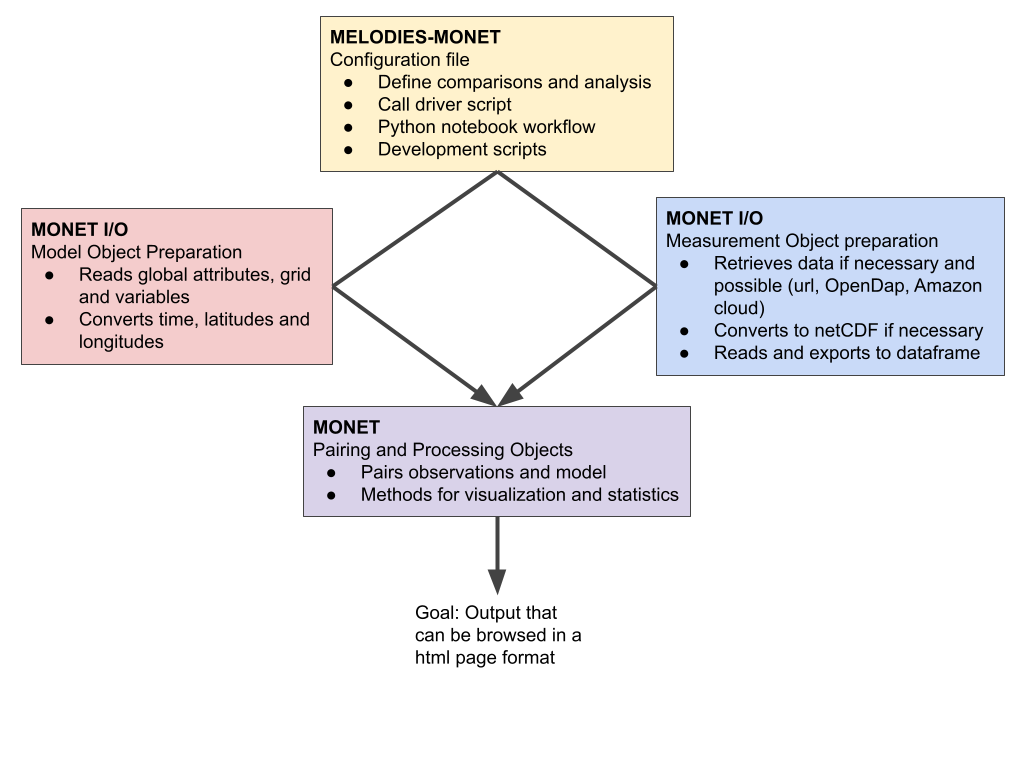
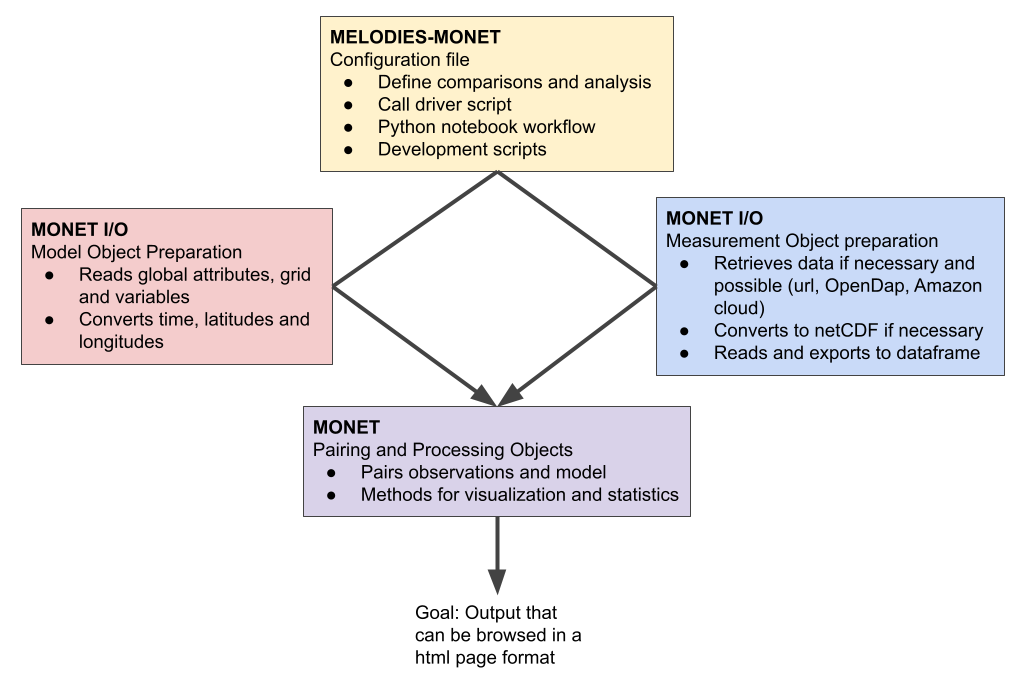
Adding in more information from the google doc.

Changed region(s): [[0.0, 0.0, 1.0, 0.981]]

diff --git a/docs/tutorial/machine-specific-install.rst b/docs/tutorial/machine-specific-install.rst
@@ -1,0 +1,102 @@
+Machine-specific Install
+=========================
+
+NCAR HPC cheyenne
+--------------------
+
+Below is a specific recipe for how to set up all the necessary Python dependencies on the NCAR HPC, cheyenne/casper. Note: these are developer-specific instructions. There are three steps to complete before you can use and develop MELODIES-MONET on cheyenne/casper: **Step 1.** Installing the conda package manager Miniconda, **Step 2.** Creating a conda environment with all required dependencies, and **Step 3.** Cloning MELODIES-MONET code.
+
+We will use the conda package manager system to create a contained Python environment for running and developing MELODIES-MONET. This creates a “stand-alone” instance of interdependent packages that will not interfere with your access to the main installation of Python on the system. These instructions should work for a bash or tcsh shell.
+
+**Step 0:** Log into the NCAR HPC
+
+**Step 1 Miniconda:** The conda package manager is not installed on the Cheyenne or Casper clusters, but you can install Miniconda in your own user space (`CISL instructions <https://www2.cisl.ucar.edu/resources/conda-environments>`_):
+
+(a) Download latest version::
+
+    $ curl -o install_miniconda.sh https://repo.anaconda.com/miniconda/Miniconda3-latest-Linux-x86_64.sh
+
+(b) Verify download::
+
+    $ sha256sum install_miniconda.sh
+
+    Output (June 2021)::
+
+    $ 1314b90489f154602fd794accfc90446111514a5a72fe1f71ab83e07de9504a7
+
+(c) Install Miniconda::
+
+    $ bash install_miniconda.sh
+
+    If you already have miniconda and want to try and update::
+
+    $ bash install_miniconda.sh -u
+
+Accept the license and default install paths. Say yes to running conda init. Log out of cheyenne/casper and log back in. You may see '(base)' as the start of your terminal prompt. If you have any issues with package conflicts you may need to uninstall miniconda and reinstall.
+
+**Step 2 Dependent Python Packages:** Set up a conda environment with required dependencies.
+
+(a) Set up and activate CONDA environment specific to MELODIES-MONET. You can call this environment whatever you like, we suggest ‘monet_py36’::
+
+    $ conda create --name monet_py36 python=3.6
+    $ conda activate monet_py36
+
+    You should see ‘(monet_py36)’ at the start of your terminal prompt.
+
+(b) Download the following packages step-by-step. Note they have sub-packages that will be downloaded. The ‘-y’ means you will not have to interactively choose ‘y’ to proceed with downloading packages::
+
+    $ conda install netcdf4
+    $ conda install -y -c conda-forge monet
+    $ conda install -y -c conda-forge monetio
+    $ conda install -y -c conda-forge wrf-python
+    $ conda install -y -c conda-forge jupyter
+
+    Some main packages that are downloaded with the monet install: *cartopy, cython, dask, markupsafe, matplotlib-base, pandas, pydecorate, pyresample, python-stratify, seaborn, xarray, xesmf*. Some main packages that are downloaded with the jupyter install: *icu, ipykernel, ipython*. If other systems have timeout errors, downloading these separately may improve the setup performance.
+
+(c) Once you set up the correct packages through conda, and while your conda environment is still activated, get the most recent branches of MONET and MONETIO using github, and link them with conda. This is done because MONET and MONETIO are still in active development. Create a ‘monet-base’ folder (e.g. in your work location on cheyenne).
+
+    Set up and link MONET within monet-base::
+
+    $ git clone https://github.com/noaa-oar-arl/monet.git
+    $ cd monet
+    $ git checkout develop
+    $ pip install -e .
+
+    Set up and link MONET IO within monet-base::
+
+    $ git clone https://github.com/noaa-oar-arl/monetio.git
+    $ cd monetio
+    $ git checkout development
+    $ pip install -e .
+
+**Step 3: Clone the MELODIES-MONET Github branch**
+
+(a) Fork the Github repository to your own Github account:
+
+    https://github.com/NOAA-CSL/MELODIES-MONET
+
+    Note: you can pull updates from the main NOAA repository by using the “Fetch upstream” button on your fork. Alternatively::
+
+    $ git pull upstream master
+    $ git push origin master
+
+(b) Navigate on cheyenne/casper to where you would like to keep the MELODIES-MONET code (e.g. in your work location) and clone your fork to cheyenne::
+
+    $ git clone https://github.com/$GithubUsername/$ForkName.git
+
+(c) Checkout the develop_plots branch - you need to do this with the remote branch as well as create a local tracking branch::
+
+    $ git checkout origin/develop_plots
+    $ git checkout develop_plots
+
+    Then all development work will be in the monet_analysis folder::
+
+    $ cd monet_analysis
+
+    End step. At the end of working with MELODIES-MONET, deactivate the conda environment::
+
+    $ conda deactivate
+
+
+**You are ready to start developing MELODIES-MONET!**
+

diff --git a/docs/background/installation.rst b/docs/background/installation.rst
@@ -17,43 +17,36 @@ For parallel computing
 
 - `dask.array <http://dask.pydata.org>`__ (0.9.0 or later): required for
 
-Instructions
-------------
+Conda YAML files
+~~~~~~~~~~~~~~~~
+Examples of conda configuration yaml files that include a record of all the dependencies are available via the GitHub:
 
-monetio itself is a pure Python package, but some of it's dependencies may not be.
-The simplest way to install MONET is to install it from the channel bbakernoaa::
+- `MELODIES-MONET conda yml <https://github.com/NOAA-CSL/MELODIES-MONET/tree/develop_plots/monet_analysis/data/python_env_ymls>`__
 
-    $ conda install -c bbakernoaa monetio
+General Instructions
+--------------------
 
-This will install all of the dependencies needed by monetio along with monetio itself.
+MELODIES-MONET itself is a pure Python package, but some of it's dependencies may not be.
+First, set up a conda environment with all the dependencies, including MONET and MONETIO::
 
-If you choose to install it manually you can install the dependencies we recommend using the the following command::
+    $ conda create --name monet_py36 python=3.6
+    $ conda activate monet_py36
+    $ conda install netcdf4
+    $ conda install -y -c conda-forge wrf-python
+    $ conda install -y -c conda-forge jupyter
+    $ conda install -y -c conda-forge monet
+    $ conda install -y -c conda-forge monetio
 
-    $ conda config --add channels conda-forge
-    $ conda install xarray dask netCDF4 numpy pandas s3fs
+Then, fork the MELODIES-MONET package to your own GitHub and clone the repository to the location you will be using the plotting package.
 
-We recommend using the community maintained `conda-forge <https://conda-forge.github.io/>`_ channel
-if you need difficult\-to\-build dependencies such as cartopy, pynio or PseudoNetCDF::
 
-    $ conda install -c conda-forge xarray pandas matplotlib seaborn cartopy pseudonetcdf
+.. [1] For instructions for specific machine environments see Appendix:
 
-To install MONET currently you must install with pip.  This can be done directly
-from the github page::
+      - `NCAR cheyenne <../tutorial/machine-specific-install.html#NCAR-HPC-cheyenne>`__
 
-    $ pip install git+https://github.com/noaa-oar-arl/monetio.git
-
-or you can manually download it from GitHub and install it using the setup.py::
-
-    $ git clone https://github.com/noaa-oar-arl/MONET.git
-    $ cd MONET
-    $ pip install setup.py
-
-.. [1] MONET plans to drop support for python 2.7 sometime in 2019. This
-   means that new releases of xarray published after this date will only be
-   installable on python 3+ environments, but older versions of xarray will
-   always be available to python 2.7 users. For more information see the
-   following references:
+.. [2] For more information see the following references:
 
       - `Python 3 Statement <http://www.python3statement.org/>`__
       - `Tips on porting to Python 3 <https://docs.python.org/3/howto/pyporting.html>`__
+
 

diff --git a/docs/background/getting-started.rst b/docs/background/getting-started.rst
@@ -1,2 +1,28 @@
 Getting Started
 ===============
+
+The user interface
+------------------
+YAML (YAML Ain't Markup Language) is the format of the MELODIES configuration file. The yaml configuration file is how the general user interacts with MELODIES-MONET. A user edits the yaml file and then uses the driver python script to run the yaml script. In the configuration file, the user specifies which evaluations will be performed, i.e. which measurements to use and which comparisons to make.
+
+Links to example yaml files can be found here:
+
+- Example 1
+
+
+How MELODIES-MONET works
+------------------------
+
+A single driver file reads the yaml configuration file and handles sending all the appropriate calls to the processing code. The driver functions are initiated from a python notebook. The analysis system:
+
+ - transforms model and observations into standard formats
+ - includes a standard set of observational data
+ - automatically generates diagnostics and plots
+ - is easily altered to produce publication-quality plots
+
+Processing requires input to be in netCDF format. MONETIO can be used to convert input files into netCDF prior to using MELODIES-MONET. Data needs to have latitude, longitude, and a datetime object defined.
+
+.. figure:: /_static/MM_classes_connections.png
+  :alt: diagram showing the Python classes defined and used in MELODIES-MONET.
+  
+  Schematic of the classes defined in the Python code and used by MELODIES-MONET.

diff --git a/docs/background/contributing.rst b/docs/background/contributing.rst
@@ -1,4 +1,14 @@
 How to Contribute?
 ==================
 
+MELODIES-MONET is a community driven project. It would not be possible without the contributions and support from you. Below is a list of people who have specifically contributed to MELODIES-MONET. If your name is missing and you have contributed - please contact us and let us know!
 
+
+Get involved
+-------------
+Workshops, development team, GitHub issues.
+
+
+Results from 2020 user survey
+-----------------------------
+A survey of the atmospheric chemistry community was conducted in Nov-Dec 2020 to identify existing model evaluation tools and to catalog desired features of model-observation comparison software.  30 responses were received, with 80% being researchers who run models and 20% who primarily analyze observations.  There was equal interest in using satellite retrievals, field campaign in situ data, and surface or ground-based networks.  The respondents included users of 17 unique models and covered a wide range of areas of research, including air quality, gas-phase and aerosol chemistry, cloud interactions, marine chemistry, emissions inventories, data assimilation and public health. This survey informaed development priorities.

diff --git a/docs/index.rst b/docs/index.rst
@@ -35,7 +35,7 @@ information on MONET and MONETIO github repositories please refer to:
 .. toctree::
    :hidden:
    :maxdepth: 4
-   :caption: Background and Setup
+   :caption: Background & Setup
 
    background/introduction
    background/description
@@ -50,16 +50,17 @@ information on MONET and MONETIO github repositories please refer to:
 .. toctree::
    :hidden:
    :maxdepth: 4
-   :caption: Capabilities
+   :caption: Capabilities & Examples
 
    examples/regional_ts
 
 
 
-.. _on GitHub: https://github.com/NOAA-CSL/MELODIES-MONET
-
 .. toctree::
-   :maxdepth: 10
+   :maxdepth: 1
    :caption: Help & Reference
 
    api
+   tutorial/machine-specific-install
+
+

diff --git a/docs/background/under-development.rst b/docs/background/under-development.rst
@@ -1,4 +1,8 @@
 Under Development
 =================
 
+Development priorities
+------------------------
 
+- Comparing with satellite measurements (planned: MOPITT)
+- Comparing with field campaigns (planned: WE-CAN)
